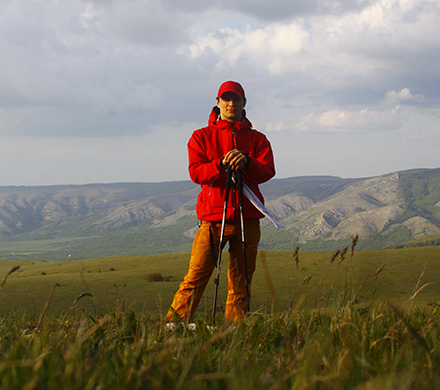
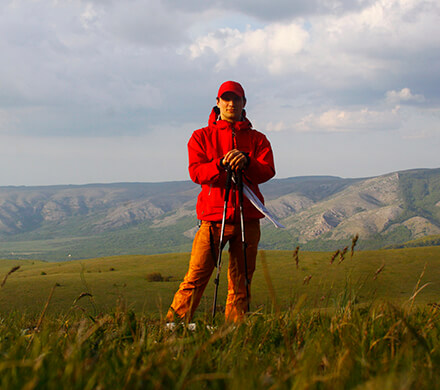
Адаптировал и оптимизировал моия фотографии.

Changed region(s): [[0.3841, 0.1846, 0.5614, 0.8308], [0.5023, 0.7077, 0.5614, 0.8308], [0.5614, 0.3692, 0.6205, 0.4308]]

diff --git a/source/style/_parts/_person.scss b/source/style/_parts/_person.scss
@@ -10,10 +10,7 @@
 	&__img {
 
 		&--me {
-			width: 122%;
-			position: absolute;
-			top: -20px;
-			left: -21px;
+			width: 100%;
 		}
 	}
 
